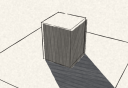
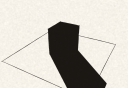
Croquis 0.8.0: high contrast as comic ink
High contrast was a dark grey marker; now it is its own technique, as in
comics and ink drawings: contour and solid black. Lit faces stay paper
white; the faces turned from the light, the cast shadows and the dark
materials are solid ink right up to the lines (no offset). A «Dry brush»
switch in the Materials box breaks the black up at its edges. The style
card's thumbnail is redrawn.

diff --git a/croquis/ink.py b/croquis/ink.py
@@ -1,0 +1,45 @@
+# SPDX-License-Identifier: GPL-3.0-or-later
+# Copyright (C) 2026 Victor Crespo (3dvic.com · github.com/vicc3d)
+"""High contrast, as a comic or an ink drawing: contour and solid black.
+
+Two values only. What the light reaches stays the white of the paper; the
+faces turned away from it, the cast shadows and the dark materials are
+filled with solid ink, right up to the lines (no offset: it is the same
+pen). With the brush texture, the black breaks up at its edges as a dry
+brush or a worn nib leaves it.
+"""
+from __future__ import annotations
+
+import numpy as np
+
+from .marker import DARK_TONE, _box_blur, _noise
+
+
+def paint(base: np.ndarray, values: np.ndarray, tone, scale: float,
+          ink=(29, 26, 23), texture: bool = False,
+          strength: float = 1.0) -> np.ndarray:
+    """Lay the black masses on ``base`` (H, W, 3 floats 0..255).
+    ``values``: 2 away from the light, 3 in a cast shadow; ``tone``: the
+    materials' lightness per pixel (dark ones are black too), or None."""
+    mass = (values == 2) | (values == 3)
+    if tone is not None:
+        mass |= (tone >= 0) & (tone < DARK_TONE)
+    if not mass.any():
+        return base
+    m = mass.astype(np.float64)
+    h, w = m.shape
+    if texture:
+        # A dry brush: the edge of the mass breaks into specks, more of
+        # them the nearer the edge, and a few gaps inside.
+        r = max(1, int(round(6 * scale)))
+        near = _box_blur(m, r)
+        speck = _noise((h, w), 1.6 * scale, 71)
+        drag = _noise((h, w), 14.0 * scale, 73)
+        m = ((near + (speck - 0.5) * 0.9 + (drag - 0.5) * 0.35) > 0.62).astype(np.float64)
+        m *= mass | (near > 0.85)
+    else:
+        # A clean edge, softened a hair (antialiasing).
+        m = np.clip(_box_blur(m, 1) * 1.2 - 0.1, 0.0, 1.0)
+    a = np.clip(m * strength, 0.0, 1.0)[:, :, None]
+    t = np.array(ink, dtype=np.float64)[None, None, :] / 255.0
+    return base * (1.0 - a * (1.0 - t))

diff --git a/croquis/texts.py b/croquis/texts.py
@@ -5,6 +5,8 @@ from __future__ import annotations
 
 _TEXTS = {
     "es": {
+        "Dry brush": "Pincel seco",
+        "High contrast: the black breaks up at its edges, as a dry brush leaves it": "Alto contraste: el negro se deshace en los bordes, como lo deja un pincel seco",
         "On: each area of colour or hatching gets its own slant, as a hand never repeats one exactly. Off: all alike.": "Activada: cada zona de color o de rayado lleva su propia inclinación, como una mano que nunca repite exactamente. Desactivada: todas iguales.",
         "Reset all": "Restablecer todo",
         "Every setting of the panel back to how it comes, as just installed": "Todos los ajustes del panel como recién instalado",
@@ -94,6 +96,8 @@ _TEXTS = {
             "Dibuja un croquis a mano alzada de la vista actual.",
     },
     "pt-BR": {
+        "Dry brush": "Pincel seco",
+        "High contrast: the black breaks up at its edges, as a dry brush leaves it": "Alto contraste: o preto se desfaz nas bordas, como deixa um pincel seco",
         "On: each area of colour or hatching gets its own slant, as a hand never repeats one exactly. Off: all alike.": "Ativada: cada área de cor ou de hachura tem sua própria inclinação, como uma mão que nunca repete exatamente. Desativada: todas iguais.",
         "Reset all": "Restaurar tudo",
         "Every setting of the panel back to how it comes, as just installed": "Todos os ajustes do painel como recém-instalado",

diff --git a/croquis/panel.py b/croquis/panel.py
@@ -239,6 +239,11 @@ class CroquisPanel(QWidget):
             self.materials[key] = b
             mgrid.addWidget(b, i // 2, i % 2)
         mats.body.addLayout(mgrid)
+        self.dry = Switch(tr("Dry brush"))
+        self.dry.setToolTip(tr("High contrast: the black breaks up at its edges, "
+                               "as a dry brush leaves it"))
+        self.dry.toggled.connect(lambda v: self._set("ink_texture", v))
+        mats.body.addWidget(self.dry)
         out.append(((light, mats), 1))
 
         # Hatching.
@@ -452,6 +457,7 @@ class CroquisPanel(QWidget):
             for key, b in self.materials.items():
                 b.setChecked(s["materials"] == key)
             self.hatch_on.setChecked(s["hatching"])
+            self.dry.setChecked(s["ink_texture"])
             self.hatch_dir.set_value(s["hatch_along"])
             self.turn.setValue(s["hatch_turn"])
             self.turn_label.setText(f"{tr('Turn')} {s['hatch_turn']}°")
@@ -463,6 +469,7 @@ class CroquisPanel(QWidget):
         fill = s["technique"] != "ink"
         for b in self.materials.values():
             b.setEnabled(fill)
+        self.dry.setEnabled(fill and s["materials"] == "contrast")
         for key in ("offset", "strength"):
             self.sliders[key].setEnabled(fill)
         self.sliders["nib"].setEnabled(s["technique"] == "marker")

diff --git a/croquis/presets.py b/croquis/presets.py
@@ -22,7 +22,7 @@ DEFAULTS = {
     "technique": "marker",            # marker, watercolour or ink
     "light": "classic", "shadows": True,
     "materials": "colour",            # colour, greys, contrast or none
-    "natural": False,
+    "natural": False, "ink_texture": False,
     "hatching": False, "hatch_along": True, "hatch_turn": 0,
     "offset": 12, "nib": 26, "strength": 100,
     "unfinished": True, "construction": True, "ground": False,
@@ -56,7 +56,8 @@ PRESETS = {
     "contrast": ("High contrast", {
         "technique": "marker", "materials": "contrast", "shadows": True,
         "hatching": False, "outlines": True, "twice": False,
-        "unfinished": False, "construction": False, "ground": False}),
+        "unfinished": False, "construction": False, "ground": False,
+        "ink_texture": False}),
 }
 
 
@@ -115,7 +116,7 @@ def marker_style(s: dict) -> MarkerStyle:
         strength=s["strength"] / 100.0, shadows=s["shadows"], colour=True,
         colour_mode=s["materials"], hatching=s["hatching"],
         hatch_along=s["hatch_along"], hatch_turn=float(s["hatch_turn"]),
-        natural=s["natural"])
+        natural=s["natural"], ink_texture=s["ink_texture"])
 
 
 def composition(s: dict) -> Composition:

diff --git a/croquis/drawing.py b/croquis/drawing.py
@@ -16,6 +16,7 @@ from PySide6.QtGui import QColor, QImage, QPainter, QPolygonF
 
 from . import compose as cp
 from . import hatch
+from . import ink
 from . import marker as mk
 from . import palette as pal
 from . import shadow as sh
@@ -143,7 +144,11 @@ def fill_layer(view: View, style: mk.MarkerStyle, maps: dict | None = None,
     maps = maps if maps is not None else shade_maps(view, style)
     ones = np.full((view.bh, view.bw, 3), 255.0)
     scale = view.bh / st.REFERENCE_HEIGHT
-    if style.medium == "watercolour":
+    if mk.colour_mode(style) == "contrast":
+        # High contrast is its own technique: contour and solid ink.
+        factor = ink.paint(ones, maps["values"], maps["tone"], scale, INK,
+                           texture=style.ink_texture, strength=min(1.0, style.strength))
+    elif style.medium == "watercolour":
         factor = wc.paint(ones, maps["values"], maps["colour"], style, scale,
                           tone=maps["tone"])
     else:

diff --git a/tests/test_in_ingetrazo.py b/tests/test_in_ingetrazo.py
@@ -596,3 +596,17 @@ def test_reset_all_puts_every_setting_back(window):
     assert panel.s == ps.DEFAULTS
     assert panel.cards[ps.DEFAULTS["preset"]].isChecked()
     assert panel.hand.value() == ps.DEFAULTS["hand"]
+
+
+def test_high_contrast_is_solid_ink_on_white():
+    from croquis import ink
+    values = np.zeros((120, 160), dtype=np.int8)
+    values[20:60, 20:60] = 2                       # away from the light
+    values[70:110, 90:150] = 3                     # a cast shadow
+    out = ink.paint(np.full((120, 160, 3), 240.0), values, None, 0.2)
+    grey = out.mean(axis=2)
+    assert grey[40, 40] < 40 and grey[90, 120] < 40   # solid black masses
+    assert grey[5, 5] > 235 and grey[90, 60] > 235     # paper elsewhere
+    rough = ink.paint(np.full((120, 160, 3), 240.0), values, None, 0.2, texture=True)
+    edge = rough.mean(axis=2)[18:24, 20:60]
+    assert (edge > 200).any() and (edge < 60).any()   # broken at its edge

diff --git a/croquis/marker.py b/croquis/marker.py
@@ -56,6 +56,7 @@ class MarkerStyle:
     hatch_along: bool = True      # hatching along the faces (or diagonal)
     hatch_turn: float = 0.0       # degrees added to the hatching
     natural: bool = False         # each area its own turn of the hand
+    ink_texture: bool = False     # high contrast: a dry brush's edge
 
 
 def triangle_normals(tris: np.ndarray) -> np.ndarray:

diff --git a/croquis/__init__.py b/croquis/__init__.py
@@ -15,7 +15,7 @@ Install: copy the ``croquis`` folder into IngeTrazo's plugins folder
 """
 from __future__ import annotations
 
-__version__ = "0.7.4"
+__version__ = "0.8.0"
 
 
 def setup(app) -> None:
